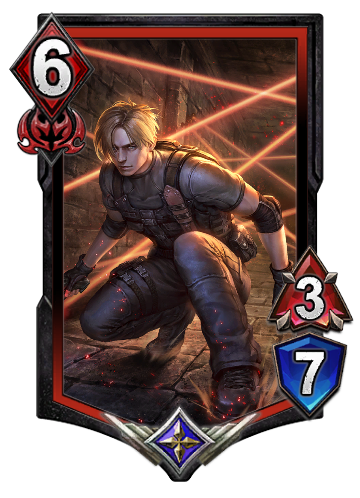
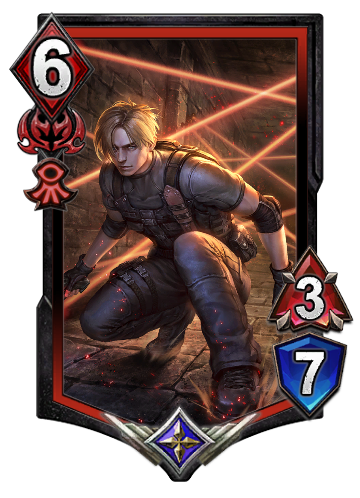
updated for tribes

Changed region(s): [[0.0611, 0.3012, 0.2139, 0.4217]]

diff --git a/teppen/showcase.html b/teppen/showcase.html
@@ -24,7 +24,7 @@
           </label>
           <div>
             <label
-              class="w-64 flex flex-col items-center px-2 py-3 mx-5 bg-gray-800 text-white rounded-lg shadow-lg tracking-wide text-xs font-bold uppercase border border-gray-900 cursor-pointer">
+              class="w-32 flex flex-col items-center px-2 py-3 mx-5 bg-gray-800 text-white rounded-lg shadow-lg tracking-wide text-xs font-bold uppercase border border-gray-900 cursor-pointer">
               <svg class="w-8 h-8" fill="currentColor" xmlns="http://www.w3.org/2000/svg" viewBox="0 0 20 20">
                 <path
                   d="M16.88 9.1A4 4 0 0 1 16 17H5a5 5 0 0 1-1-9.9V7a3 3 0 0 1 4.52-2.59A4.98 4.98 0 0 1 17 8c0 .38-.04.74-.12 1.1zM11 11h3l-4-4-4 4h3v3h2v-3z" />
@@ -48,8 +48,23 @@
                 <option>Black</option>
               </select>
             </div>
+            <label class="block uppercase tracking-wide text-gray-700 mx-5 text-xs font-bold mb-2">
+              BG
+            </label>
+            <div class="relative">
+              <select v-model="bgName" @change="changeBG(bgName)"
+                class="appearance-none block w-full bg-gray-800 text-white border border-gray-900 rounded py-3 px-4 leading-tight focus:outline-none mb-8"
+                id="grid-state">
+                <option disabled value="">Please Select A BG</option>
+                <option>1</option>
+                <option>2</option>
+                <option>3</option>
+                <option>4</option>
+                <option>5</option>
+              </select>
+            </div>
             <label class="block uppercase tracking-wide text-gray-700 text-xs mx-5 font-bold mb-2" for="grid-state">
-              Rarity
+              Info
             </label>
             <div class="relative">
               <select v-model="cardRarity" @change="changeRarity(cardRarity)"
@@ -62,6 +77,34 @@
                 <option>Legendary</option>
               </select>
             </div>
+          <div class="relative">
+            <select v-model="cardTribe" @change="changeTribe(cardTribe)"
+              class="appearance-none block w-full bg-gray-800 text-white border border-gray-900 rounded py-3 px-4 leading-tight focus:outline-none mb-8"
+              id="grid-state">
+              <option disabled value="">Please Select A Tribe</option>
+              <option>Human</option>
+              <option>None</option>
+              <option>Beast</option>
+              <option>Creature</option>
+              <option>Demon</option>
+              <option>Monster</option>
+              <option>Machine</option>
+            </select>
+          </div>
+          <div class="relative">
+            <select v-model="cardTribe2" @change="changeTribe2(cardTribe2)"
+              class="appearance-none block w-full bg-gray-800 text-white border border-gray-900 rounded py-3 px-4 leading-tight focus:outline-none mb-8"
+              id="grid-state">
+              <option disabled value="">Please Select A Tribe</option>
+              <option>None</option>
+              <option>Human</option>
+              <option>Beast</option>
+              <option>Creature</option>
+              <option>Demon</option>
+              <option>Monster</option>
+              <option>Machine</option>
+            </select>
+          </div>
             <div @click="changetextColor('#B9BB72')" class="block w-12 h-12 rounded-lg cursor-pointer mx-4" style="background-color: #B9BB72"></div>
             <div @click="changetextColor('#588599')" class="block w-12 h-12 rounded-lg cursor-pointer mx-4" style="background-color: #588599"></div>
             <div @click="changetextColor('#FFFFFF')" class="block w-12 h-12 rounded-lg cursor-pointer mx-4" style="background-color: #FFFFFF"></div>
@@ -101,6 +144,9 @@
       fileInput: null,
       cardColor: 'Red',
       cardRarity: "Legendary",
+      cardTribe: "Human",
+      cardTribe2: "None",
+      bgName: "1",
       cardRarityImg: null,
       cardRarityArt: null,
       cardRarityEmblem: {
@@ -116,6 +162,13 @@
         "Purple": "#8c50a0",
         "Black": "#323c55"
       },
+      backgrounds: {
+        1: "./card/bg1.jpg",
+        2: "./card/bg2.jpg",
+        3: "./card/bg3.jpg",
+        4: "./card/bg4.jpg",
+        5: "./card/bg5.jpg"
+      },
       emblem: null,
       emblemColor: {
         "Red": "./card/icon-attribute-red.png",
@@ -123,7 +176,20 @@
         "Purple": "./card/icon-attribute-purple.png",
         "Black": "./card/icon-attribute-black.png"
       },
-      emblemImg: null
+      tribes: {
+        Human: "./card/Human.png",
+        None: "",
+        Beast: "./card/Beast.png",
+        Creature: "./card/Creature.png",
+        Demon: "./card/Demon.png",
+        Monster: "./card/Monster.png",
+        Machine: "./card/Machine.png"
+      },
+      emblemImg: null,
+      tribe: null,
+      tribeImg: null,
+      tribe2: null,
+      tribeImg2: null
     },
     methods: {
         changetextColor: function(color) {
@@ -203,6 +269,28 @@
             this.canvas.renderAll();
           })
       },
+      changeBG: function (color) {
+        this.bg = fabric.Image.fromURL(this.backgrounds[color], img => {
+          img.selectable = false;
+          img.evented = false;
+          img.left = -300;
+          img.width = 1800;
+          img.height = 600;
+          img.opacity = .2;
+          this.canvas.setBackgroundImage(img);
+          this.canvas.renderAll();
+        })
+      },      
+      changeTribe: function(color) {
+          this.tribeImg.setSrc(this.tribes[color], img => {
+            this.canvas.renderAll();
+          })
+      },
+      changeTribe2: function(color) {
+          this.tribeImg2.setSrc(this.tribes[color], img => {
+            this.canvas.renderAll();
+          })
+      },
       changeRarity: function(color) {
           this.cardRarityArt.setSrc(this.cardRarityEmblem[color], img => {
             img.scaleToHeight(100);
@@ -216,7 +304,7 @@
           preserveObjectStacking: true
         });
         this.fileInput = this.$refs.fileInput;
-        this.bg = fabric.Image.fromURL('./card/bg2.jpg', img => {
+        this.bg = fabric.Image.fromURL('./card/bg1.jpg', img => {
         img.selectable = false;
         img.evented = false;
         img.left = -300;
@@ -278,6 +366,31 @@
           this.emblemImg = img;
           this.canvas.add(img)
       })
+
+      this.tribe = fabric.Image.fromURL(
+        "./card/Human.png",
+        img => {
+          img.selectable = false;
+          img.evented = false;
+          img.left = 735;
+          img.top = 150;
+          this.tribeImg = img;
+          this.canvas.add(img);
+          //canvas.bringToFront(tribeImg);
+        }
+      );
+      this.tribe2 = fabric.Image.fromURL(
+        "./card/Creature.png",
+        img => {
+          img.selectable = false;
+          img.evented = false;
+          img.left = 835;
+          img.top = 150;
+          this.tribeImg2 = img;
+          this.canvas.add(img);
+          //canvas.bringToFront(tribeImg);
+        }
+      );
 
        this.cardRarityArt = fabric.Image.fromURL('./card/legendaryRarity.png', img => {
         img.selectable = false;

diff --git a/teppen/unit.html b/teppen/unit.html
@@ -121,6 +121,78 @@
 						class="block uppercase tracking-wide text-gray-700 text-xs font-bold mb-2"
 						for="grid-state"
 					>
+						Tribe 1
+					</label>
+					<div class="relative">
+						<select
+							v-model="cardTribe"
+							@change="changeTribe(cardTribe)"
+							class="appearance-none block w-full bg-gray-800 text-white border border-gray-900 rounded py-3 px-4 leading-tight focus:outline-none mb-8"
+							id="grid-state"
+						>
+							<option disabled value="">Please Select A Tribe</option>
+							<option>Human</option>
+							<option>None</option>
+							<option>Beast</option>
+							<option>Creature</option>
+							<option>Demon</option>
+							<option>Monster</option>
+							<option>Machine</option>
+						</select>
+						<div
+							class="pointer-events-none absolute inset-y-0 right-0 flex items-center px-2 text-gray-700"
+						>
+							<svg
+								class="fill-current h-4 w-4"
+								xmlns="http://www.w3.org/2000/svg"
+								viewBox="0 0 20 20"
+							>
+								<path
+									d="M9.293 12.95l.707.707L15.657 8l-1.414-1.414L10 10.828 5.757 6.586 4.343 8z"
+								/>
+							</svg>
+						</div>
+					</div>
+					<label
+						class="block uppercase tracking-wide text-gray-700 text-xs font-bold mb-2"
+						for="grid-state"
+					>
+						Tribe 2
+					</label>
+					<div class="relative">
+						<select
+							v-model="cardTribe2"
+							@change="changeTribe2(cardTribe2)"
+							class="appearance-none block w-full bg-gray-800 text-white border border-gray-900 rounded py-3 px-4 leading-tight focus:outline-none mb-8"
+							id="grid-state"
+						>
+							<option disabled value="">Please Select A Tribe</option>
+							<option>None</option>
+							<option>Human</option>
+							<option>Beast</option>
+							<option>Creature</option>
+							<option>Demon</option>
+							<option>Monster</option>
+							<option>Machine</option>
+						</select>
+						<div
+							class="pointer-events-none absolute inset-y-0 right-0 flex items-center px-2 text-gray-700"
+						>
+							<svg
+								class="fill-current h-4 w-4"
+								xmlns="http://www.w3.org/2000/svg"
+								viewBox="0 0 20 20"
+							>
+								<path
+									d="M9.293 12.95l.707.707L15.657 8l-1.414-1.414L10 10.828 5.757 6.586 4.343 8z"
+								/>
+							</svg>
+						</div>
+					</div>
+					<label
+						class="block uppercase tracking-wide text-gray-700 text-xs font-bold mb-2"
+						for="grid-state"
+					>
 						Rarity
 					</label>
 					<div class="relative">
@@ -201,6 +273,8 @@
 					cardAttack: 0,
 					cardColor: "Red",
 					cardRarity: "Legendary",
+					cardTribe: "Human",
+					cardTribe2: "None",
 					border: null,
 					borderImg: null,
 					borderColor: null,
@@ -229,7 +303,11 @@
 					healthImg: null,
 					health2: null,
 					healthImg2: null,
-					imageGroup: null
+					imageGroup: null,
+					tribe: null,
+					tribeImg: null,
+					tribe2: null,
+					tribeImg2: null
 				},
 				mounted: function() {
 /* 					function sortLayout(canvas) {
@@ -257,6 +335,30 @@
 								this.emblemImg.evented = false;
 								canvas.add(this.emblemImg);
 								canvas.bringToFront(this.emblemImg);
+							}
+						);
+						this.tribe = fabric.Image.fromURL(
+							"./card/Human.png",
+							function (oImg) {
+								this.tribeImg = oImg;
+								this.tribeImg.selectable = false;
+								this.tribeImg.evented = false;
+								this.tribeImg.top = 145;
+								this.tribeImg.left = 7;
+								canvas.add(this.tribeImg);
+								canvas.bringToFront(this.tribeImg);
+							}
+						);
+						this.tribe2 = fabric.Image.fromURL(
+							"./card/None.png",
+							function (oImg) {
+								this.tribeImg2 = oImg;
+								this.tribeImg2.selectable = false;
+								this.tribeImg2.evented = false;
+								this.tribeImg2.top = 145*1.50;
+								this.tribeImg2.left = 7;
+								canvas.add(this.tribeImg2);
+								canvas.bringToFront(this.tribeImg2);
 							}
 						);
 						this.rarity = fabric.Image.fromURL(
@@ -475,6 +577,35 @@
 							this.canvas.renderAll();
 						})
 						
+					},
+					changeTribe: (color) => {
+						let cardEmblem = {
+							Human: "./card/Human.png",
+							None: "", 
+							Beast: "./card/Beast.png", 
+							Creature: "./card/Creature.png",
+							Demon: "./card/Demon.png",
+							Monster: "./card/Monster.png",
+							Machine: "./card/Machine.png"
+						}
+						return this.tribeImg.setSrc(cardEmblem[color], (img) => {
+							this.canvas.renderAll();
+						})
+						
+					},
+					changeTribe2: (color) => {
+						let cardEmblem = {
+							Human: "./card/Human.png",
+							None: "", 
+							Beast: "./card/Beast.png", 
+							Creature: "./card/Creature.png",
+							Demon: "./card/Demon.png",
+							Monster: "./card/Monster.png",
+							Machine: "./card/Machine.png"
+						}
+						return this.tribeImg2.setSrc(cardEmblem[color], (img) => {
+							this.canvas.renderAll();
+						})						
 					},
 					changeInner: (color) => {
 						let cardEmblem = {
